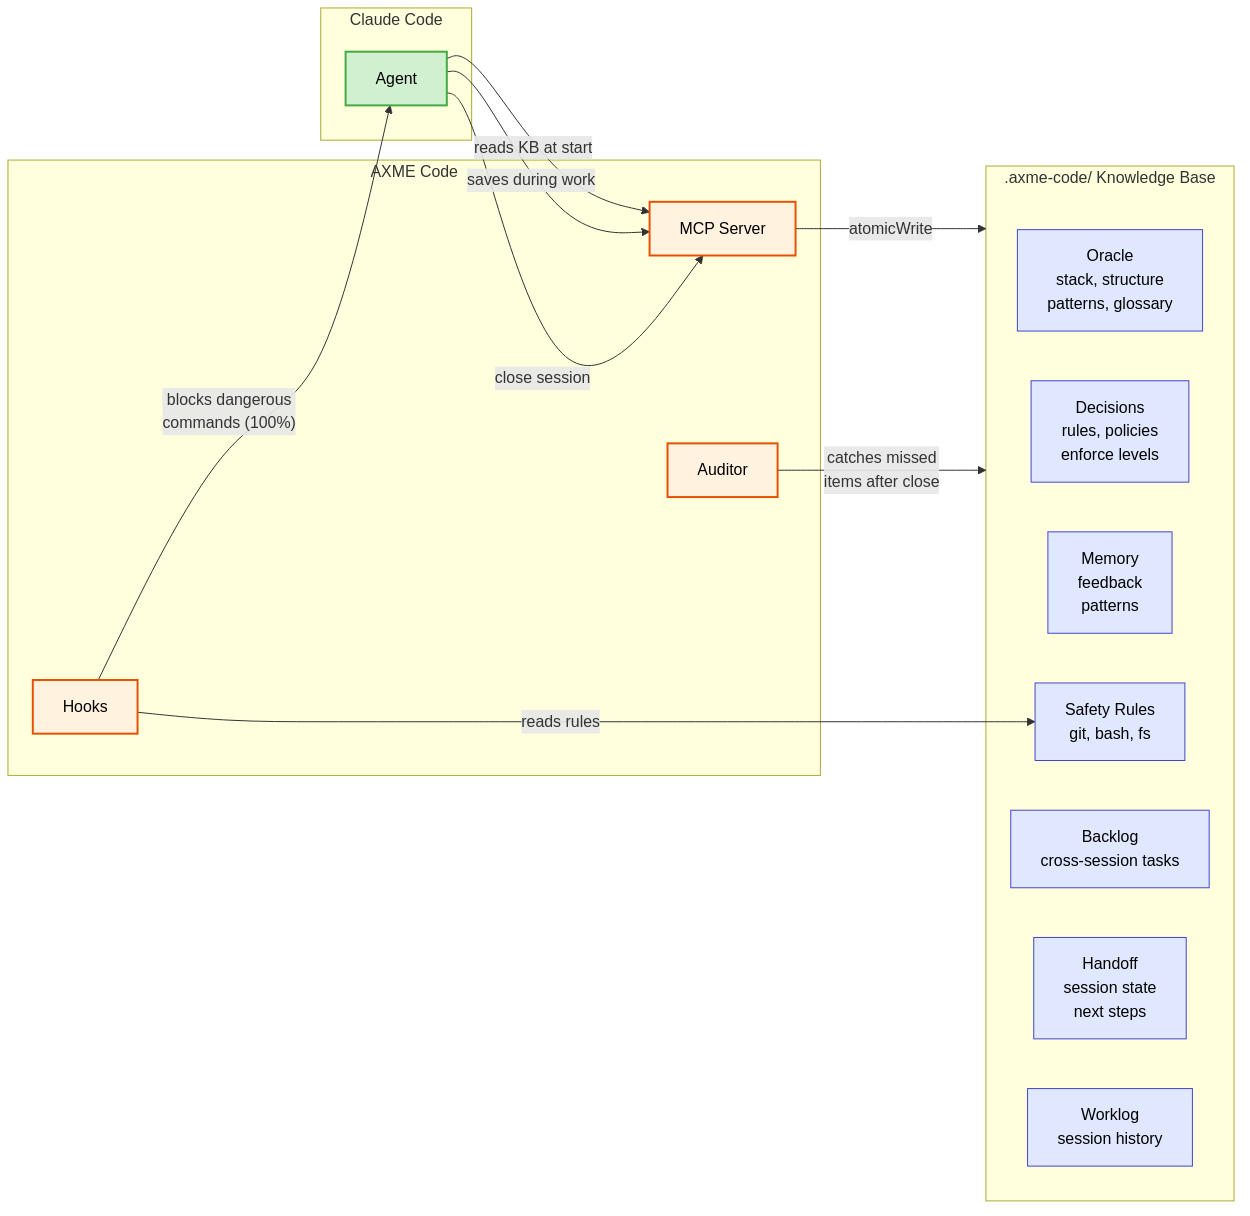
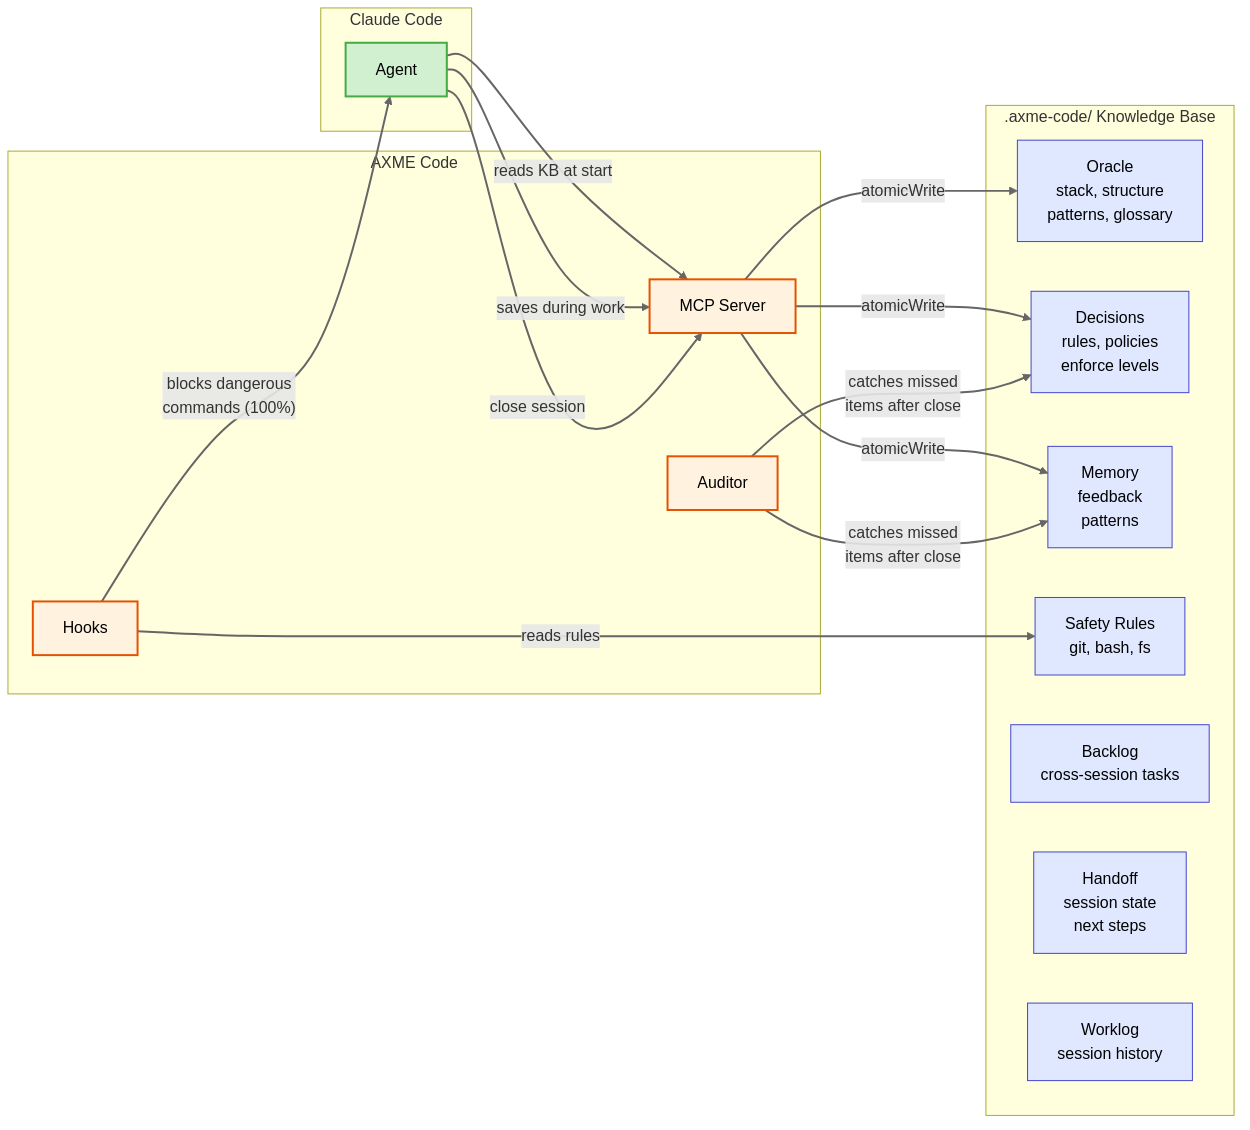
fix: README polish + overview diagram readability
- Remove version-specific install example
- Add Windows to supported platforms
- Setup description: mention decisions, memories, safety rules extraction
- Safety section: add custom rules guidance
- Session close: clarify user initiates close
- Overview diagram: white background, gray (#666) link lines for
  readability, KB block aligned with Claude Code block

diff --git a/README.md b/README.md
@@ -82,9 +82,7 @@ Decisions enforce verification requirements: agent must run tests and show proof
 curl -fsSL https://raw.githubusercontent.com/AxmeAI/axme-code/main/install.sh | bash
 ```
 
-Or with a specific version: `curl -fsSL ... | bash -s v0.2.0`
-
-Installs to `~/.local/bin/axme-code`. Supports Linux and macOS (x64 and ARM64).
+Installs to `~/.local/bin/axme-code`. Supports Linux, macOS, and Windows (x64 and ARM64).
 
 ### Setup
 
@@ -95,7 +93,7 @@ claude                   # that's it — use Claude Code as usual
 ```
 
 `axme-code setup` does three things:
-1. **Scans your project** and builds the knowledge base (stack, structure, patterns, glossary)
+1. **Scans your project** and builds the knowledge base — oracle (stack, structure, patterns, glossary), extracts decisions, memories, and safety rules from your code, configs, CLAUDE.md, and session history
 2. **Installs safety hooks** that intercept dangerous commands before execution
 3. **Configures the MCP server** in Claude Code settings (`.mcp.json`)
 
@@ -127,6 +125,8 @@ Blocked by default:
 - `npm publish`, `git tag`, `gh release create`
 - Writing to `.env`, `.pem`, `.key` files
 
+You can add your own custom rules via `axme_update_safety` or by editing `.axme-code/safety/rules.yaml` directly.
+
 ### Automatic Knowledge Extraction
 The agent saves discoveries during work via MCP tools. At session close, a structured checklist ensures nothing is missed. If you just close the window — a background auditor extracts memories, decisions, and safety rules from the full session transcript.
 
@@ -145,7 +145,7 @@ Supports 14 workspace formats: VS Code multi-root, pnpm/npm/yarn workspaces, Nx,
 
 1. **Session starts** → agent calls `axme_context`, loads full knowledge base
 2. **During work** → agent saves discoveries via `axme_save_memory`, `axme_save_decision`. Hooks enforce safety on every tool call.
-3. **Session close** → agent calls `axme_begin_close`, gets a checklist. Reviews the session for missed memories, decisions, safety rules. Calls `axme_finalize_close` — MCP writes handoff, worklog, and extractions atomically.
+3. **Session close** → ask your agent to close the session → agent calls `axme_begin_close`, gets a checklist. Reviews the session for missed memories, decisions, safety rules. Calls `axme_finalize_close` — MCP writes handoff, worklog, and extractions atomically.
 4. **Fallback** → if you just close the window, the background auditor extracts everything from the transcript.
 5. **Next session** → `axme_context` returns everything accumulated. Handoff says exactly where to continue.
 
